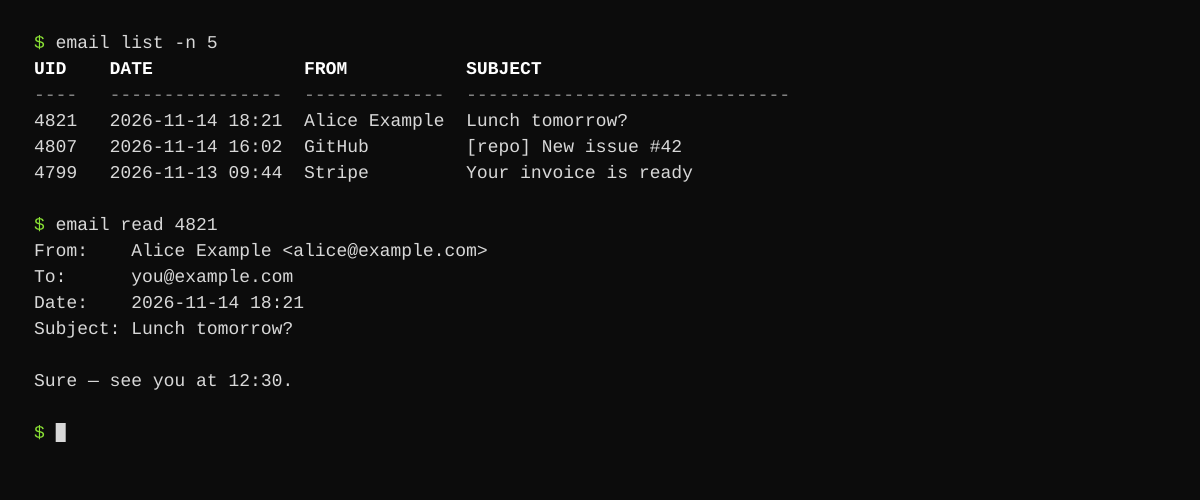
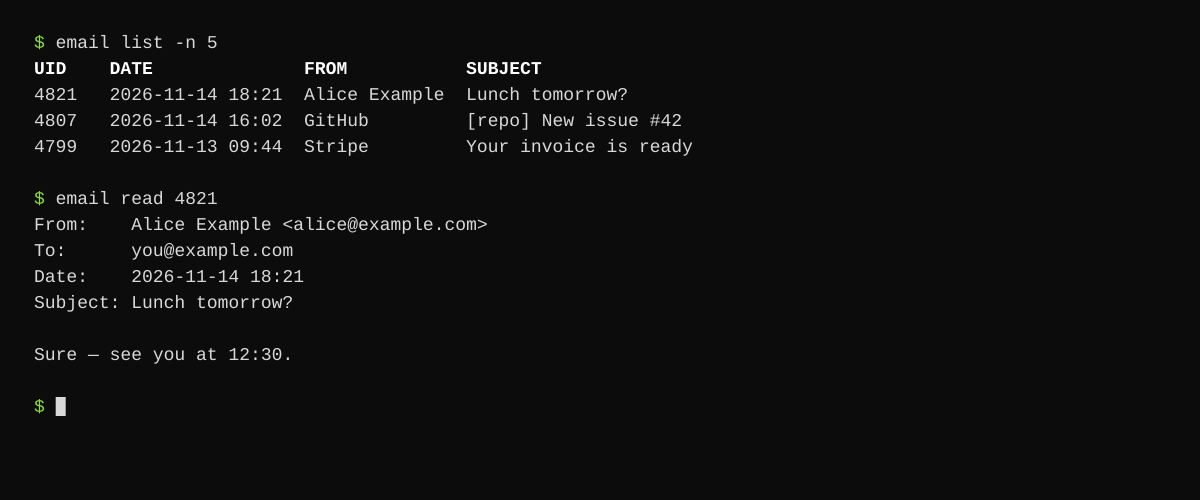
Simplify CLI output

diff --git a/src/render.rs b/src/render.rs
@@ -112,10 +112,6 @@ fn print_message_text(message: &ParsedMessage, html: bool, headers_only: bool) {
                 cell(&attachment.mime_type)
             );
         }
-        println!(
-            "Download: email attachment {} <number> --mailbox '{}'",
-            message.uid, message.mailbox
-        );
     }
     println!();
     if headers_only {
@@ -179,11 +175,6 @@ pub fn print_attachments(message: &ParsedMessage, format: OutputFormat) -> Resul
                     })
                     .collect();
                 print_table(&["#", "SIZE", "TYPE", "FILENAME"], &rows, &[3, 10, 30, 70]);
-                println!();
-                println!(
-                    "Download with: email attachment {} <number> --mailbox '{}'",
-                    message.uid, message.mailbox
-                );
             }
             Ok(())
         }
@@ -406,8 +397,6 @@ fn print_table(headers: &[&str], rows: &[Vec<String>], max_widths: &[usize]) {
         .map(|(index, header)| pad(header, widths[index]))
         .collect();
     println!("{}", header_cells.join("  "));
-    let separator: Vec<String> = widths.iter().map(|width| "-".repeat(*width)).collect();
-    println!("{}", separator.join("  "));
     for row in rows {
         let cells: Vec<String> = (0..columns)
             .map(|index| {
